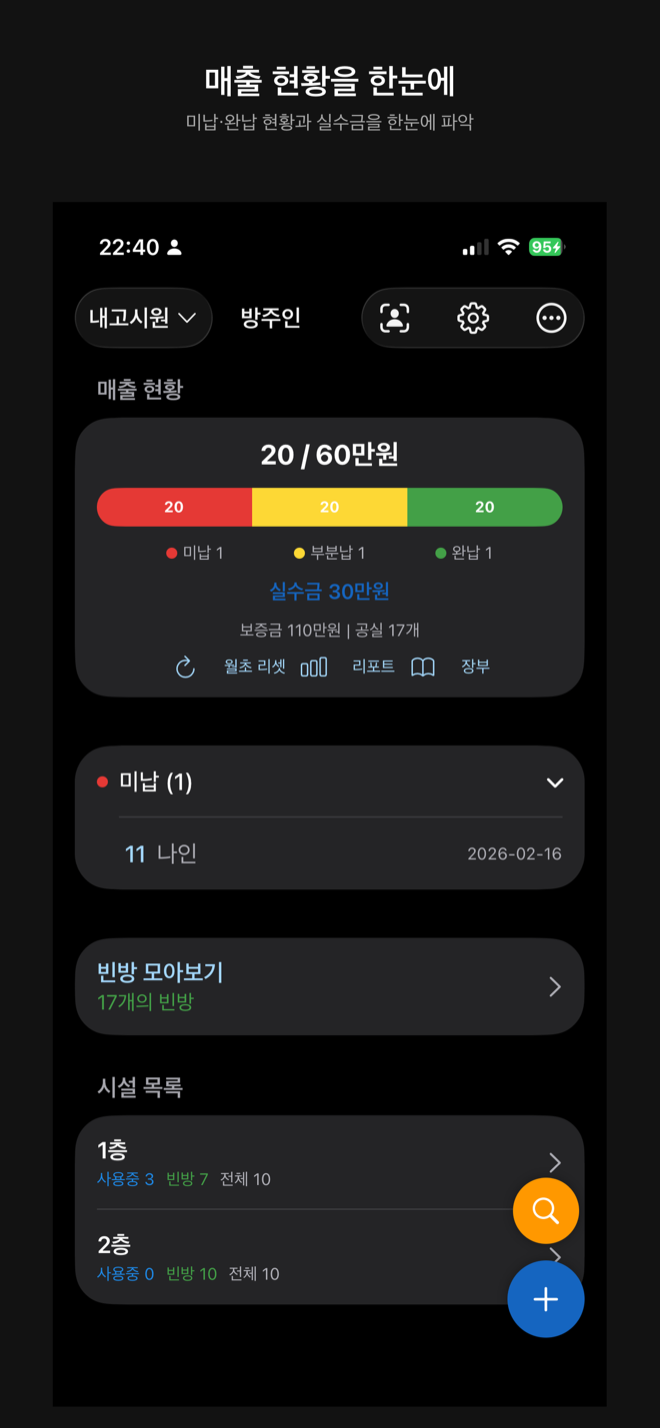
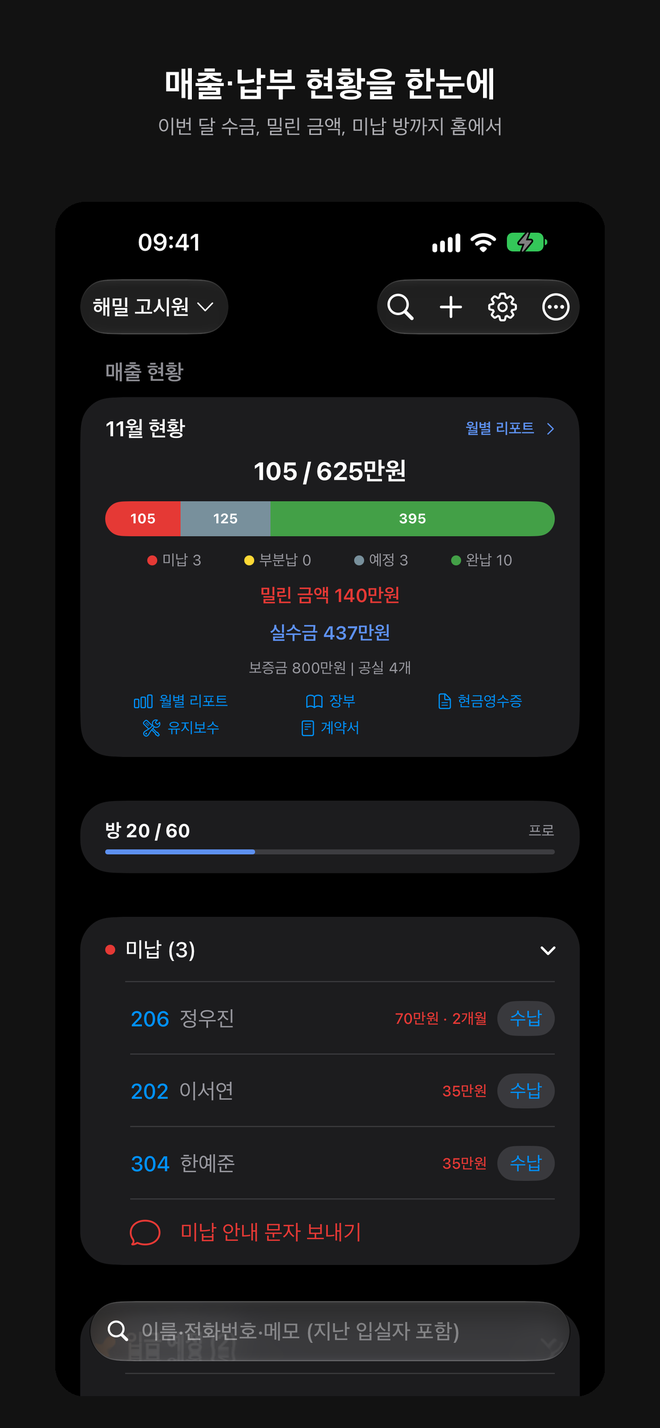
goshiwon: 웹 소개 페이지 스크린샷 5장 교체 · 플랜 문구에서 시설 빼기 — 대시보드 · 방 목록 · 계약 · 고시원 선택은 시연 데이터로 다시 촬영('월초 리셋' 버튼 · 실제처럼 보이던 번호 · 고시원 이름 제거), 프리미엄은 다음 버전 실기기 화면(원화 가격 · 시설 줄 없음). 플랜 표 '시설 수' 열, 프리미엄 '시설 무제한 등록' 항목, FAQ 의 무료 · 체험 플랜 시설 문구 삭제

diff --git a/Goshiwon/index.html b/Goshiwon/index.html
@@ -465,15 +465,15 @@ footer{border-top:1px solid var(--line);padding:48px 0 60px;color:var(--faint)}
     <div class="reveal">
     <table class="plan-table">
       <thead>
-        <tr><th>플랜</th><th>방 수</th><th>시설 수</th><th>광고</th></tr>
+        <tr><th>플랜</th><th>방 수</th><th>광고</th></tr>
       </thead>
       <tbody>
-        <tr><td><span class="name">무료</span></td><td>5개</td><td>1개</td><td class="no">있음</td></tr>
-        <tr><td><span class="name">기본</span></td><td>20개</td><td>무제한</td><td class="yes">없음</td></tr>
-        <tr><td><span class="name">스탠다드</span></td><td>40개</td><td>무제한</td><td class="yes">없음</td></tr>
-        <tr class="hot"><td><span class="name">프로</span><span class="tag">14일 무료 체험</span></td><td>60개</td><td>무제한</td><td class="yes">없음</td></tr>
-        <tr><td><span class="name">비즈니스</span></td><td>100개</td><td>무제한</td><td class="yes">없음</td></tr>
-        <tr><td><span class="name">무제한</span></td><td>무제한</td><td>무제한</td><td class="yes">없음</td></tr>
+        <tr><td><span class="name">무료</span></td><td>5개</td><td class="no">있음</td></tr>
+        <tr><td><span class="name">기본</span></td><td>20개</td><td class="yes">없음</td></tr>
+        <tr><td><span class="name">스탠다드</span></td><td>40개</td><td class="yes">없음</td></tr>
+        <tr class="hot"><td><span class="name">프로</span><span class="tag">14일 무료 체험</span></td><td>60개</td><td class="yes">없음</td></tr>
+        <tr><td><span class="name">비즈니스</span></td><td>100개</td><td class="yes">없음</td></tr>
+        <tr><td><span class="name">무제한</span></td><td>무제한</td><td class="yes">없음</td></tr>
       </tbody>
     </table>
     <p class="plan-foot">가입 즉시 14일간 프로 플랜을 무료로 체험할 수 있습니다. 체험 종료 후 무료 플랜으로 자동 전환됩니다.<br>자세한 월 요금은 앱의 <b>프리미엄</b> 화면에서 확인하세요.</p>
@@ -488,10 +488,9 @@ footer{border-top:1px solid var(--line);padding:48px 0 60px;color:var(--faint)}
       <div class="reveal"><div class="device"><img src="assets/img/premium.png" alt="프리미엄 구독 화면" loading="lazy"></div></div>
       <div class="reveal">
         <span class="eyebrow"><span class="dot"></span>프리미엄</span>
-        <h2 style="font-size:clamp(1.6rem,3.4vw,2.3rem);font-weight:800;letter-spacing:-.02em;margin-top:16px;line-height:1.25">더 많은 방, 더 많은 시설</h2>
+        <h2 style="font-size:clamp(1.6rem,3.4vw,2.3rem);font-weight:800;letter-spacing:-.02em;margin-top:16px;line-height:1.25">더 많은 방, 광고 없이</h2>
         <ul class="premium-list">
           <li><span class="pi"><svg aria-hidden="true" viewBox="0 0 24 24" fill="none" stroke-width="2" stroke-linecap="round" stroke-linejoin="round"><path d="M2 12s4-8 10-8 10 8 10 8-4 8-10 8S2 12 2 12z"/><path d="m4 4 16 16"/></svg></span><div><strong>광고 제거</strong><span>유료 플랜에서는 배너·네이티브 광고가 표시되지 않습니다.</span></div></li>
-          <li><span class="pi"><svg aria-hidden="true" viewBox="0 0 24 24" fill="none" stroke-width="2" stroke-linecap="round" stroke-linejoin="round"><path d="M3 21V7l6-4 6 4v14"/><path d="M15 21V11l6 4v6"/></svg></span><div><strong>시설 무제한 등록</strong><span>여러 건물·층을 시설로 나눠 제한 없이 관리합니다.</span></div></li>
           <li><span class="pi"><svg aria-hidden="true" viewBox="0 0 24 24" fill="none" stroke-width="2" stroke-linecap="round" stroke-linejoin="round"><rect x="3" y="3" width="18" height="18" rx="2"/><path d="M12 8v8M8 12h8"/></svg></span><div><strong>방 개수 확장</strong><span>플랜 업그레이드로 최대 무제한까지 방을 늘립니다.</span></div></li>
           <li><span class="pi"><svg aria-hidden="true" viewBox="0 0 24 24" fill="none" stroke-width="2" stroke-linecap="round" stroke-linejoin="round"><path d="M12 3v12m0 0 4-4m-4 4-4-4"/><path d="M4 17v2a2 2 0 0 0 2 2h12a2 2 0 0 0 2-2v-2"/></svg></span><div><strong>CSV 내보내기</strong><span>방 현황·결제 이력·월별 리포트를 파일로 내보냅니다.</span></div></li>
         </ul>
@@ -525,7 +524,7 @@ footer{border-top:1px solid var(--line);padding:48px 0 60px;color:var(--faint)}
     </div>
     <div class="faq reveal">
       <details><summary>iOS와 Android에서 같은 데이터를 쓸 수 있나요?<span class="plus"></span></summary><div class="ans">네. 같은 Google 계정으로 로그인하면 iOS와 Android 사이의 모든 데이터가 클라우드를 통해 실시간으로 동기화됩니다.</div></details>
-      <details><summary>무료로는 어디까지 쓸 수 있나요?<span class="plus"></span></summary><div class="ans">무료 플랜은 시설 1개, 방 5개까지 이용할 수 있습니다. 유지보수·전자 계약서·현금영수증 월별 기록은 유료 플랜에서 새로 쓰고 고칠 수 있으며, 무료 플랜에서는 지금까지의 기록을 보기만 할 수 있습니다(방의 현금영수증 발급 정보는 모든 플랜에서 사용). 장부는 유료 플랜 기능입니다. 가입 즉시 14일간 프로 플랜(방 60개·시설 무제한)을 무료로 체험할 수 있으며, 체험이 끝나면 무료 플랜으로 자동 전환됩니다.</div></details>
+      <details><summary>무료로는 어디까지 쓸 수 있나요?<span class="plus"></span></summary><div class="ans">무료 플랜은 방 5개까지 이용할 수 있습니다. 유지보수·전자 계약서·현금영수증 월별 기록은 유료 플랜에서 새로 쓰고 고칠 수 있으며, 무료 플랜에서는 지금까지의 기록을 보기만 할 수 있습니다(방의 현금영수증 발급 정보는 모든 플랜에서 사용). 장부는 유료 플랜 기능입니다. 가입 즉시 14일간 프로 플랜(방 60개)을 무료로 체험할 수 있으며, 체험이 끝나면 무료 플랜으로 자동 전환됩니다.</div></details>
       <details><summary>구독을 해지하면 데이터가 사라지나요?<span class="plus"></span></summary><div class="ans">아닙니다. 데이터는 그대로 유지됩니다. 무료 플랜 제한을 초과하는 방만 방 번호가 큰 순서로 읽기 전용으로 잠기며, 다시 업그레이드하면 즉시 해제됩니다.</div></details>
       <details><summary>직원과 함께 관리하려면 어떻게 하나요?<span class="plus"></span></summary><div class="ans">설정 → 고시원 관리 화면의 6자리 초대 코드를 직원에게 공유하세요. 직원이 앱에서 코드를 입력하면 같은 고시원에 멤버로 합류해 함께 조회·수정할 수 있습니다.</div></details>
       <details><summary>구독은 어떻게 관리·해지하나요?<span class="plus"></span></summary><div class="ans">Android는 Google Play 스토어 → 구독에서, iOS는 설정 → Apple 계정 → 구독에서 변경하거나 해지할 수 있습니다.</div></details>
